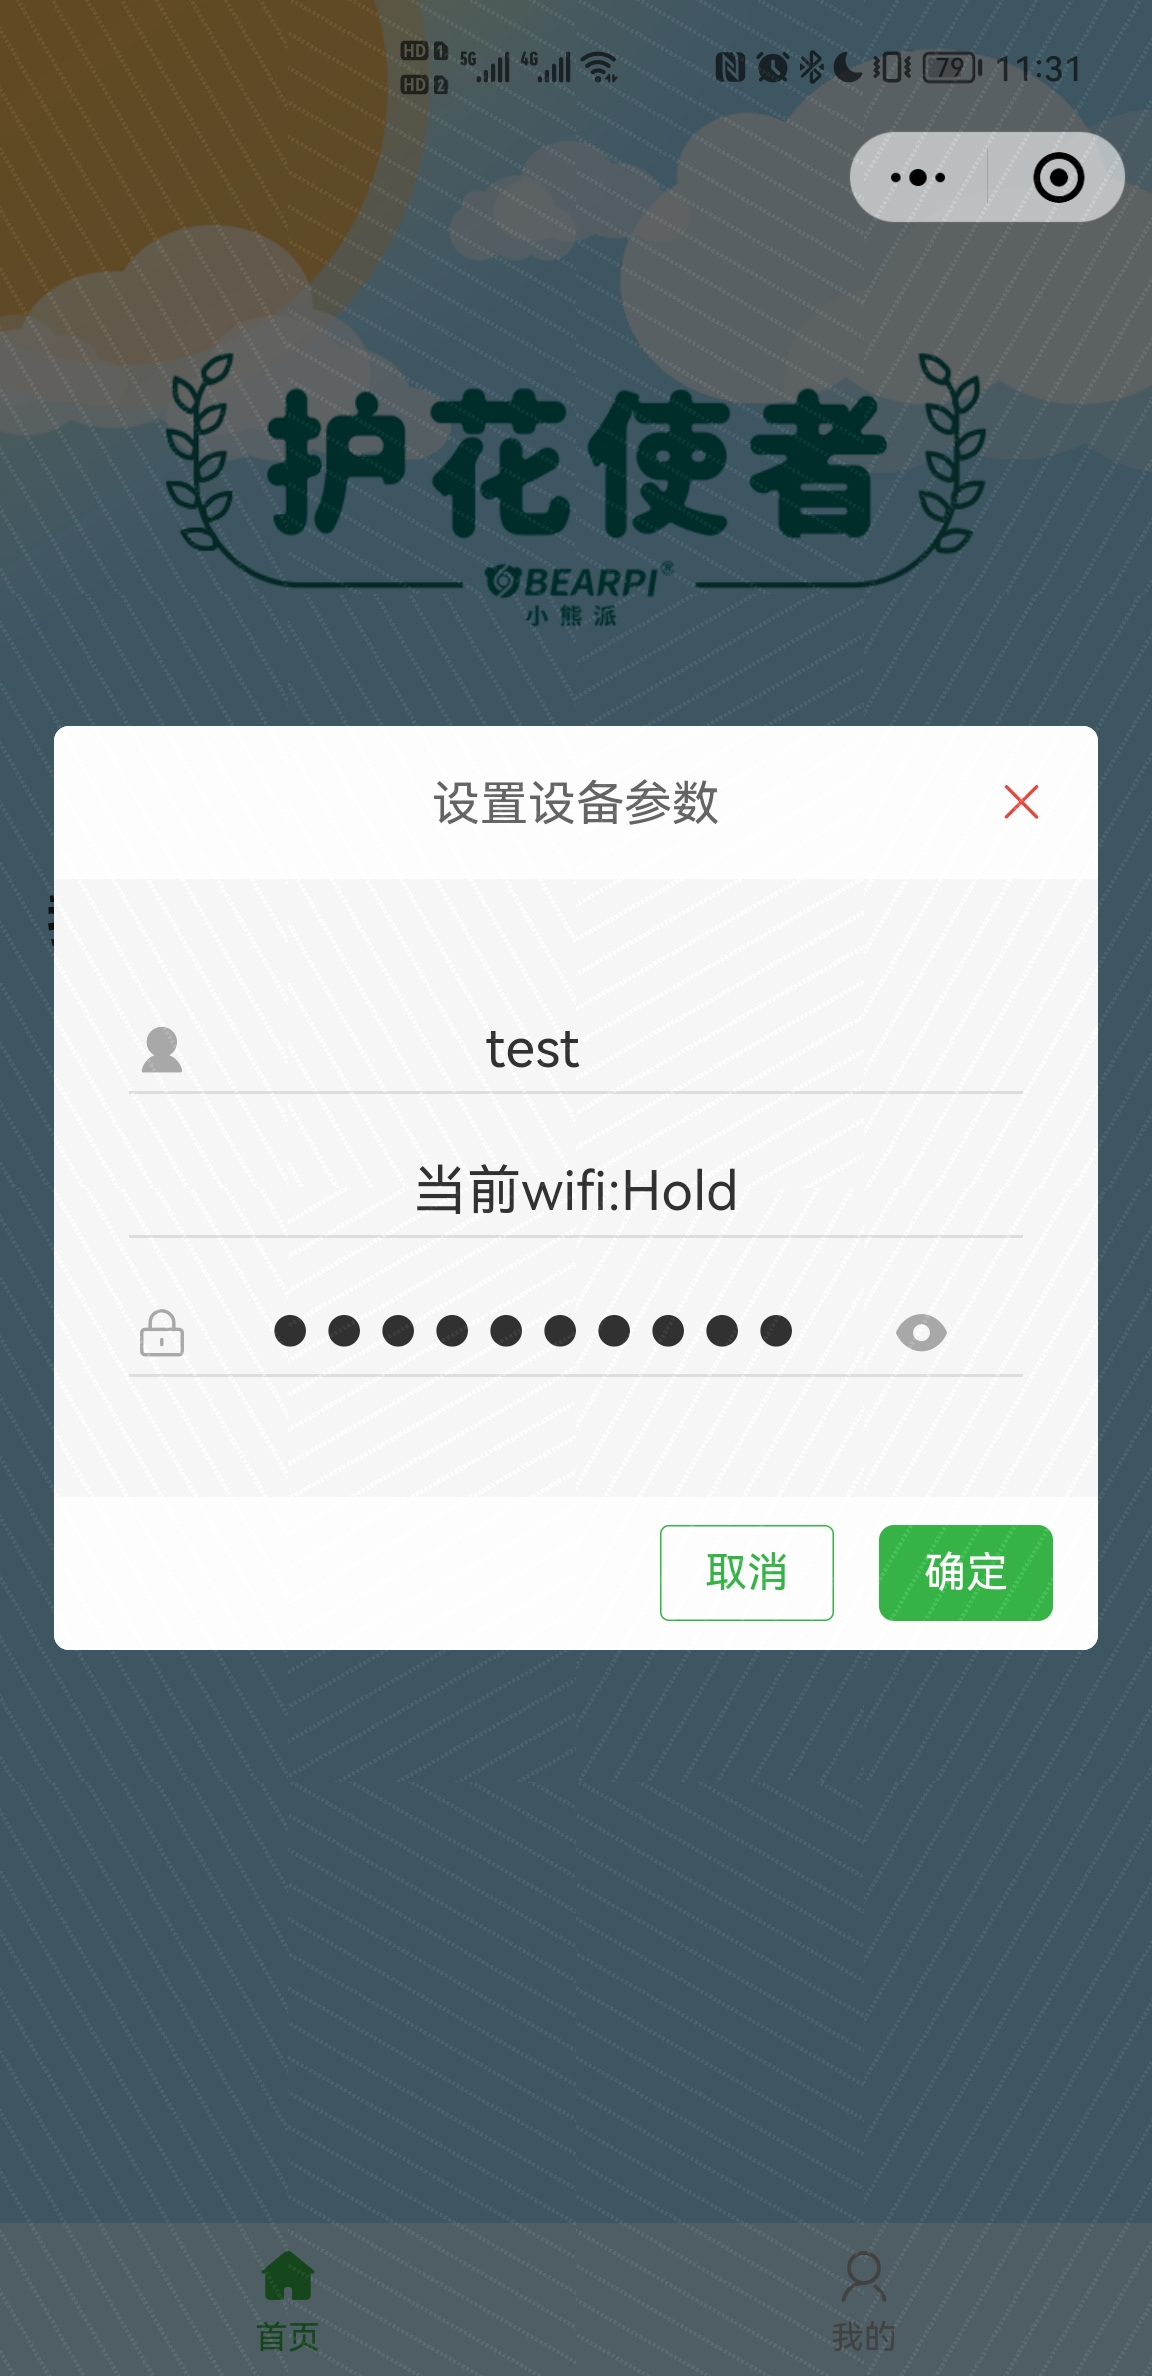
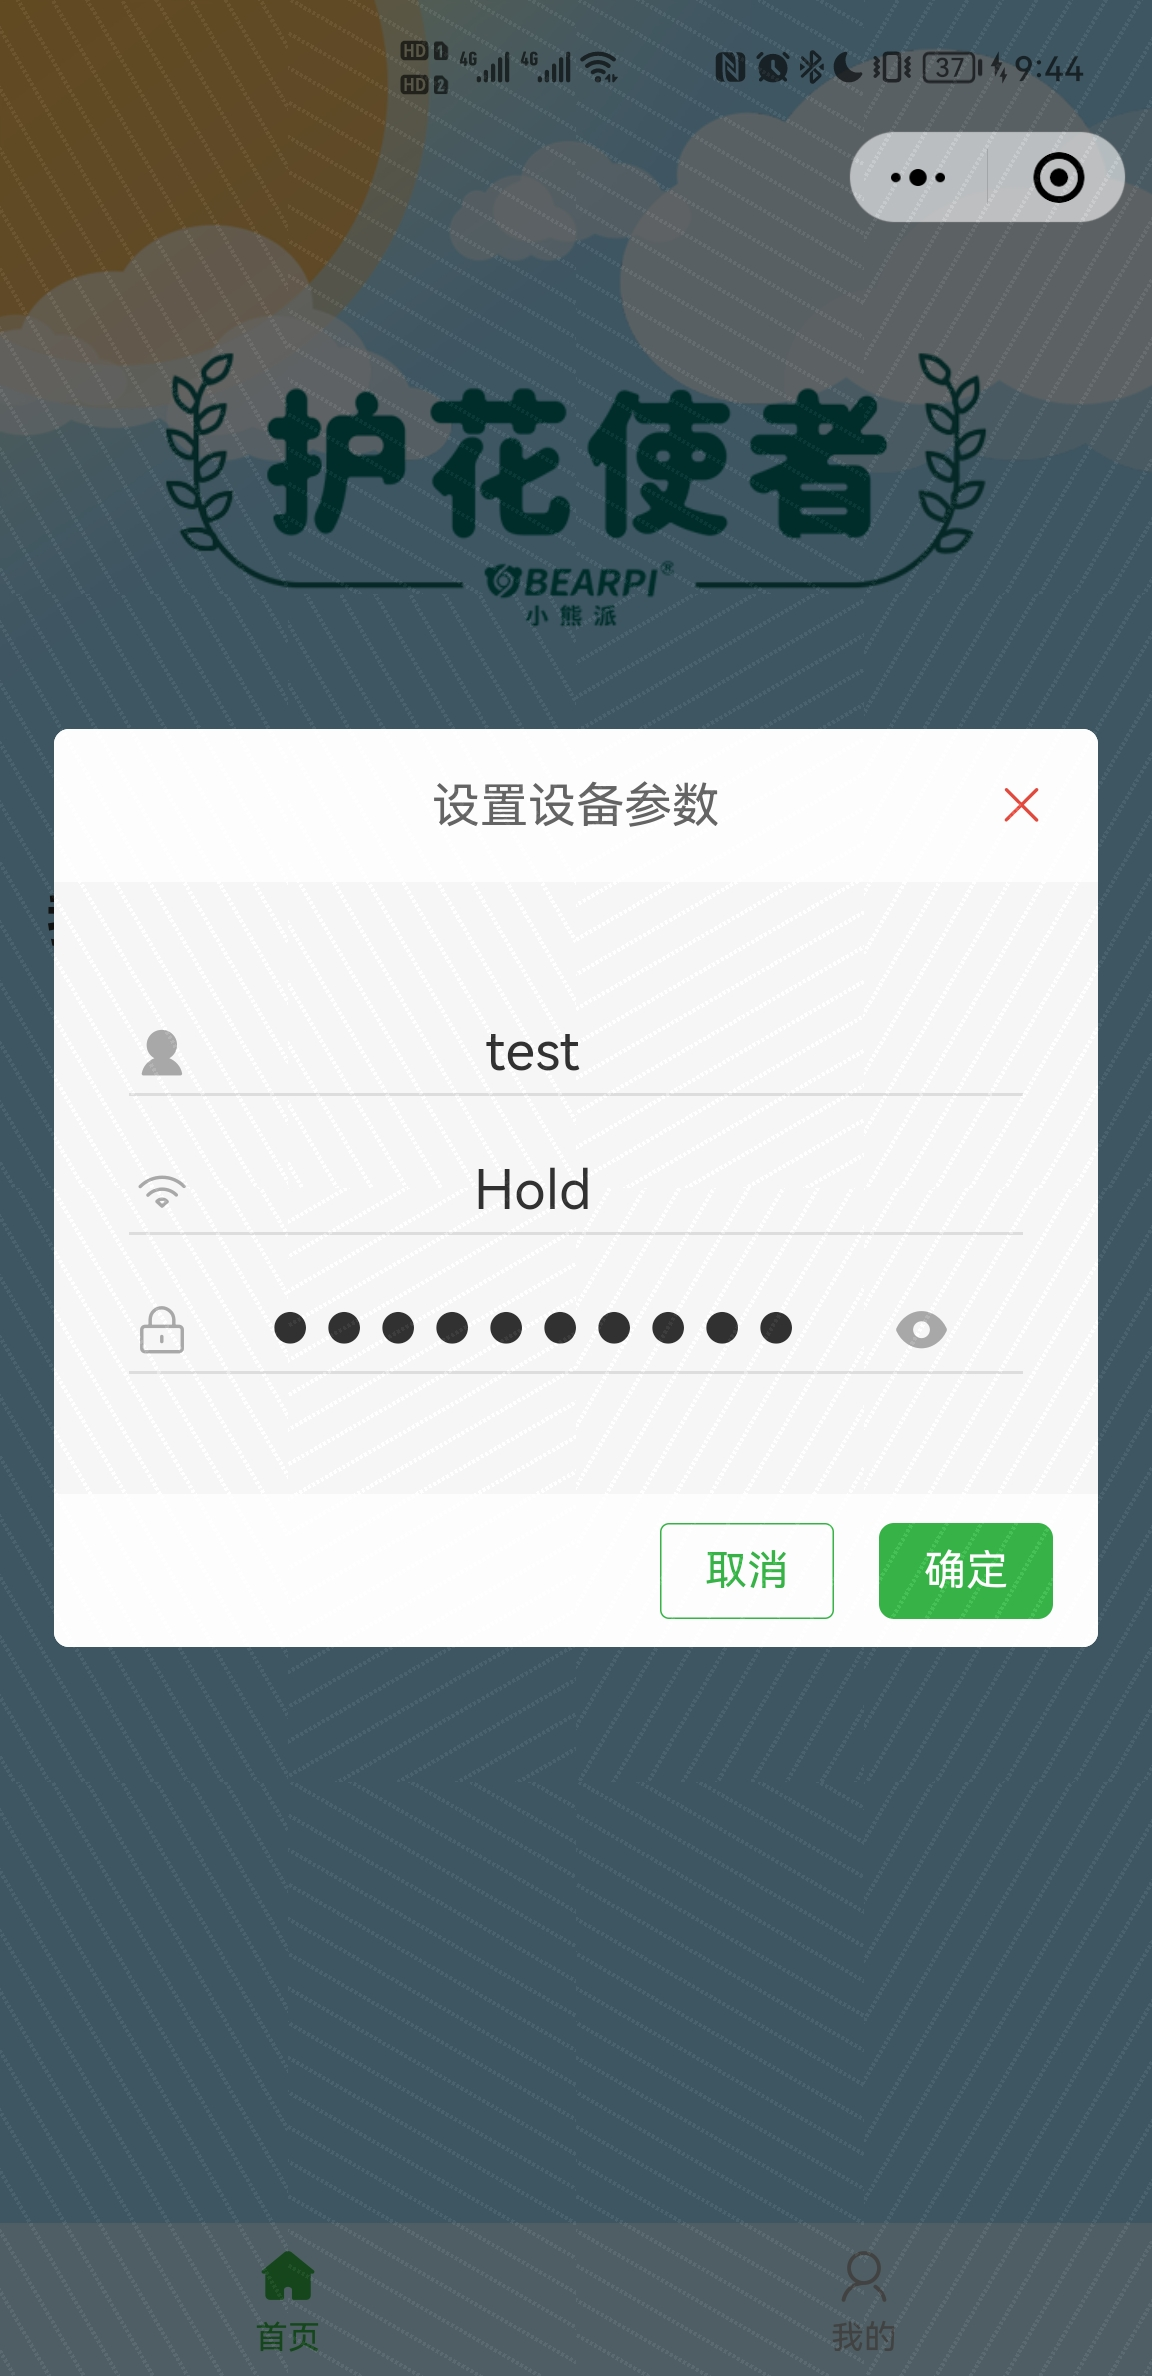
update

diff --git a/bearpi-hm_nano-oh_flower/01_操作文档/护花使者使用手册.md b/bearpi-hm_nano-oh_flower/01_操作文档/护花使者使用手册.md
@@ -109,11 +109,10 @@
 
 ### 3、添加设备
 
-&emsp;添加设备前请将手机`接入2.4G的WiFi`中，并`打开手机的NFC`功能，然后点击右上角加号，添加设备。
+&emsp;添加设备前请`打开手机的NFC`功能，然后点击右上角加号，添加设备。
     
 &emsp;**`注：`**
 
-- **`手机需提前接入2.4G的WiFi（一般为WiFi名字后缀不带5G字样的），且不能是开放的WiFi，也就是手机连接时需要输入密码的WiFi，开发者可通过另外一台手机开启热点的方式产生这样一个WiFi`**
 
 - **`需要使用带NFC功能的手机，并打开NFC功能，许多旧款的手机及iPhone手机不带有此功能`**
 
@@ -122,12 +121,18 @@
 ### 4、配置设备
 
 &emsp;填写自定义设备名称，以及设备连接目标WiFi的账号和密码，当提示“请将NFC模块靠近设备”时，将手机靠近开发板的NFC天线处，完成设备配置。
+
+&emsp;**`注：`**
+- **`此处指定接入的WiFi需要为2.4G的WiFi（一般为WiFi名字后缀不带5G字样的），且不能是开放的WiFi，也就是连接时需要输入密码的WiFi。`**
+
+- **`也可在添加设备前将手机接入2.4G的WiFi，添加设备时会自动选择手机当前连接的WiFi`**
+
     
 &emsp;<img src="./figures/设置设备参数.jpg" width = "300" height = "619" alt="设置设备参数" align=center />&emsp;<img src="./figures/注册设备.jpg" width = "300" height = "619" alt="注册设备" align=center />  
  
 ### 6、调试设备
 
-&emsp;添加完设备后，**按一下开发板的复位按键**，等待30S后，下拉“我的设备”界面，刷新界面，此时设备变为在线状态。点击设备，打开设备详情界面，即可查看当前绿植的土壤湿度以及空气的温湿度，点击浇水按钮即可远程控制设备浇水。
+&emsp;添加完设备后，**按一下开发板的复位按键**，等待30S后，下拉“我的设备”界面，刷新界面，此时设备变为在线状态。点击设备，打开设备详情界面，即可查看当前绿植的土壤湿度以及空气的温湿度，点击浇水按钮即可远程控制设备浇水。(设备上线后，手机使用移动数据也能远程监控设备数据及控制浇水)
 
 &emsp;<img src="./figures/刷新页面.jpg" width = "300" height = "619" alt="设备详情" align=center />&emsp;<img src="./figures/设备详情.jpg" width = "300" height = "619" alt="设备详情" align=center />   
 
